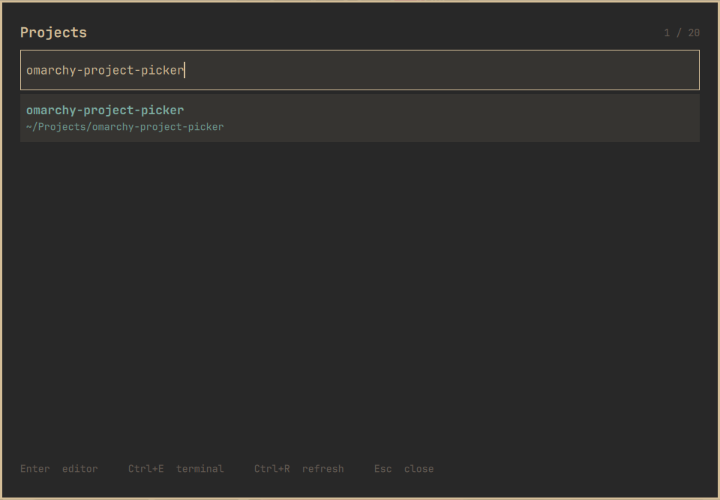
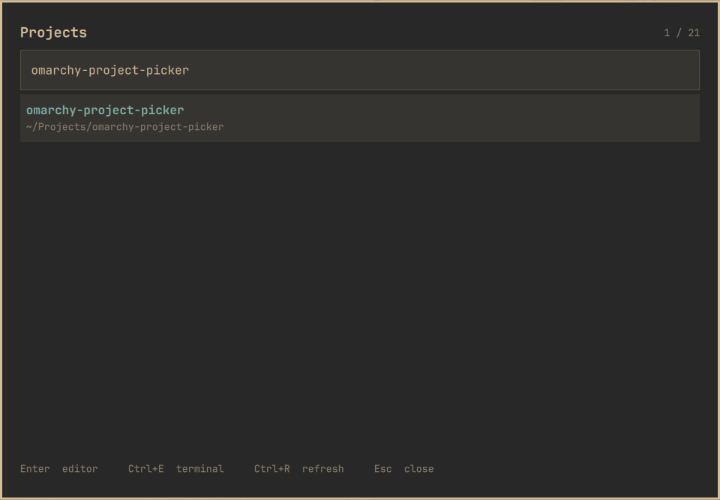
fix(theme): follow shared menu and text field styling

Changed region(s): [[0.0306, 0.12, 0.275, 0.18], [0.5194, 0.93, 0.55, 0.96], [0.275, 0.24, 0.3056, 0.27]]

diff --git a/ProjectPicker.qml b/ProjectPicker.qml
@@ -31,6 +31,7 @@ Item {
   readonly property int padding: Style.spacing.panelPadding
   readonly property int cardWidth: Math.min(Style.space(720), panel.width - Style.gapsOut * 2)
   readonly property int cardHeight: Math.min(Style.space(500), panel.height - Style.gapsOut * 2)
+  readonly property var selectedBorderSpec: Border.surfaceSpec("menu", "selected-border", Color.menu.selectedBorder, 0)
 
   function open(payloadJson) {
     var initialQuery = ""
@@ -228,9 +229,11 @@ Item {
         spacing: Style.spacing.sm
 
         Item {
+          id: header
           width: parent.width
-          height: Style.space(26)
+          height: Math.max(Style.space(26), title.implicitHeight, resultCount.implicitHeight)
           Text {
+            id: title
             text: "Projects"
             textFormat: Text.PlainText
             color: Color.menu.text
@@ -240,62 +243,42 @@ Item {
             anchors.verticalCenter: parent.verticalCenter
           }
           Text {
+            id: resultCount
             anchors.right: parent.right
             anchors.verticalCenter: parent.verticalCenter
             text: scan.running ? "Searching…" : root.results.length + " / " + root.projects.length
             textFormat: Text.PlainText
-            color: Color.muted
+            color: Color.menu.text
+            opacity: 0.58
             font.family: Style.font.menuFamily
             font.pixelSize: Style.font.caption
           }
         }
 
-        Rectangle {
+        TextField {
+          id: search
           width: parent.width
-          height: Style.space(40)
-          radius: Style.cornerRadius
-          color: Style.controlFill(search.activeFocus, false, Color.menu.text, Color.accent)
-          border.color: Color.menu.border
-          border.width: Math.max(1, Style.space(1))
-
-          TextInput {
-            id: search
-            anchors.fill: parent
-            anchors.margins: Style.spacing.md
-            verticalAlignment: TextInput.AlignVCenter
-            color: Color.menu.text
-            selectionColor: Color.menu.selectedBackground
-            selectedTextColor: Color.menu.selectedText
-            font.family: Style.font.menuFamily
-            font.pixelSize: Style.font.body
-            clip: true
-            selectByMouse: true
-            focus: true
-            onTextChanged: { root.selectedIndex = 0; filterDelay.restart() }
-            Keys.priority: Keys.BeforeItem
-            Keys.onPressed: function(event) {
-              var ctrl = (event.modifiers & Qt.ControlModifier) !== 0
-              if (event.key === Qt.Key_Escape) root.dismiss()
-              else if (ctrl && event.key === Qt.Key_E) { filterDelay.stop(); root.rebuild(false); root.activate("terminal") }
-              else if (ctrl && event.key === Qt.Key_R) root.refresh()
-              else if (event.key === Qt.Key_Down || (ctrl && event.key === Qt.Key_N)) { filterDelay.stop(); root.rebuild(true); root.select(1) }
-              else if (event.key === Qt.Key_Up || (ctrl && event.key === Qt.Key_P)) { filterDelay.stop(); root.rebuild(true); root.select(-1) }
-              else if (event.key === Qt.Key_PageDown) root.select(7)
-              else if (event.key === Qt.Key_PageUp) root.select(-7)
-              else if (event.key === Qt.Key_Return || event.key === Qt.Key_Enter) { filterDelay.stop(); root.rebuild(true); root.activate("editor") }
-              else return
-              event.accepted = true
-            }
-
-            Text {
-              anchors.fill: parent
-              verticalAlignment: Text.AlignVCenter
-              visible: !search.text.length
-              text: "Search projects or paths…"
-              textFormat: Text.PlainText
-              color: Color.muted
-              font: search.font
-            }
+          height: Math.max(Style.space(40), implicitHeight)
+          foreground: Color.menu.text
+          font.family: Style.font.menuFamily
+          font.pixelSize: Style.font.body
+          placeholderText: "Search projects or paths…"
+          selectByMouse: true
+          focus: true
+          onTextChanged: { root.selectedIndex = 0; filterDelay.restart() }
+          Keys.priority: Keys.BeforeItem
+          Keys.onPressed: function(event) {
+            var ctrl = (event.modifiers & Qt.ControlModifier) !== 0
+            if (event.key === Qt.Key_Escape) root.dismiss()
+            else if (ctrl && event.key === Qt.Key_E) { filterDelay.stop(); root.rebuild(false); root.activate("terminal") }
+            else if (ctrl && event.key === Qt.Key_R) root.refresh()
+            else if (event.key === Qt.Key_Down || (ctrl && event.key === Qt.Key_N)) { filterDelay.stop(); root.rebuild(true); root.select(1) }
+            else if (event.key === Qt.Key_Up || (ctrl && event.key === Qt.Key_P)) { filterDelay.stop(); root.rebuild(true); root.select(-1) }
+            else if (event.key === Qt.Key_PageDown) root.select(7)
+            else if (event.key === Qt.Key_PageUp) root.select(-7)
+            else if (event.key === Qt.Key_Return || event.key === Qt.Key_Enter) { filterDelay.stop(); root.rebuild(true); root.activate("editor") }
+            else return
+            event.accepted = true
           }
         }
 
@@ -303,27 +286,31 @@ Item {
           id: list
           width: parent.width
           height: Math.max(0, card.height - card.contentTopInset - card.contentBottomInset
-            - Style.space(26) - Style.space(40) - footer.height - errorLabel.height - parent.spacing * 4)
+            - header.height - search.height - footer.height - errorLabel.height - parent.spacing * 4)
           clip: true
           model: root.results
           boundsBehavior: Flickable.StopAtBounds
           currentIndex: root.selectedIndex
-          delegate: Rectangle {
+          delegate: BorderSurface {
             id: row
             required property var modelData
             required property int index
             width: list.width
-            height: root.rowHeight
+            height: Math.max(root.rowHeight, rowContent.implicitHeight + Style.spacing.controlPaddingY * 2
+              + Border.top(root.selectedBorderSpec) + Border.bottom(root.selectedBorderSpec))
             radius: Style.cornerRadius
             color: index === root.selectedIndex ? Color.menu.selectedBackground : "transparent"
+            borderSpec: index === root.selectedIndex ? root.selectedBorderSpec : Border.none()
 
             Column {
+              id: rowContent
               anchors.left: parent.left
               anchors.right: parent.right
               anchors.verticalCenter: parent.verticalCenter
-              anchors.leftMargin: Style.spacing.md
-              anchors.rightMargin: Style.spacing.md
-              spacing: Style.space(2)
+              anchors.leftMargin: Style.spacing.md + Border.left(root.selectedBorderSpec)
+              anchors.rightMargin: Style.spacing.md + Border.right(root.selectedBorderSpec)
+              anchors.verticalCenterOffset: (Border.top(root.selectedBorderSpec) - Border.bottom(root.selectedBorderSpec)) / 2
+              spacing: Style.spacing.xxs
               Text {
                 width: parent.width
                 text: Search.plainLabel(row.modelData.name)
@@ -339,8 +326,8 @@ Item {
                 text: Search.plainLabel(row.modelData.displayPath)
                 textFormat: Text.PlainText
                 elide: Text.ElideMiddle
-                color: row.index === root.selectedIndex ? Color.menu.selectedText : Color.muted
-                opacity: row.index === root.selectedIndex ? 0.8 : 1
+                color: Color.menu.text
+                opacity: 0.52
                 font.family: Style.font.menuFamily
                 font.pixelSize: Style.font.caption
               }
@@ -360,7 +347,8 @@ Item {
             visible: root.results.length === 0
             text: scan.running ? "Looking for projects…" : search.text.length ? "No matching projects" : "Add a folder to ~/Projects to get started"
             textFormat: Text.PlainText
-            color: Color.muted
+            color: Color.menu.text
+            opacity: 0.58
             font.family: Style.font.menuFamily
             font.pixelSize: Style.font.body
             width: parent.width
@@ -388,7 +376,8 @@ Item {
           width: parent.width
           text: "Enter  editor     Ctrl+E  terminal     Ctrl+R  refresh     Esc  close"
           textFormat: Text.PlainText
-          color: Color.muted
+          color: Color.menu.text
+          opacity: 0.58
           font.family: Style.font.menuFamily
           font.pixelSize: Style.font.caption
           wrapMode: Text.Wrap

diff --git a/README.md b/README.md
@@ -91,6 +91,20 @@ as separate arguments, without shell evaluation. Launching checks that the
 directory still exists. Application startup after handing off to `uwsm-app`
 is managed by the desktop session.
 
+## Theme integration
+
+The picker uses the same `[menu]` surface roles as Omarchy's menu, clipboard,
+and emoji plugins. Background, text, scrim, selected-row colors, and border
+specifications come from `qs.Commons.Color` and `Border`. Selected rows support
+the menu's border widths, gradients, and per-side overrides. Secondary text
+uses the menu foreground with reduced opacity, matching the built-in menu.
+
+The search field is Omarchy's shared `qs.Ui.TextField`, so focus borders,
+text selection, padding, and control fills follow the shell's `[style]`
+settings. Fonts use `Style.font.menuFamily` and the shared size tokens. Input,
+header, and row heights grow with their text. Theme changes update the bound
+colors and geometry without restarting the plugin.
+
 ## Configure
 
 Edit the plugin's entry inside the existing `plugins` array in
